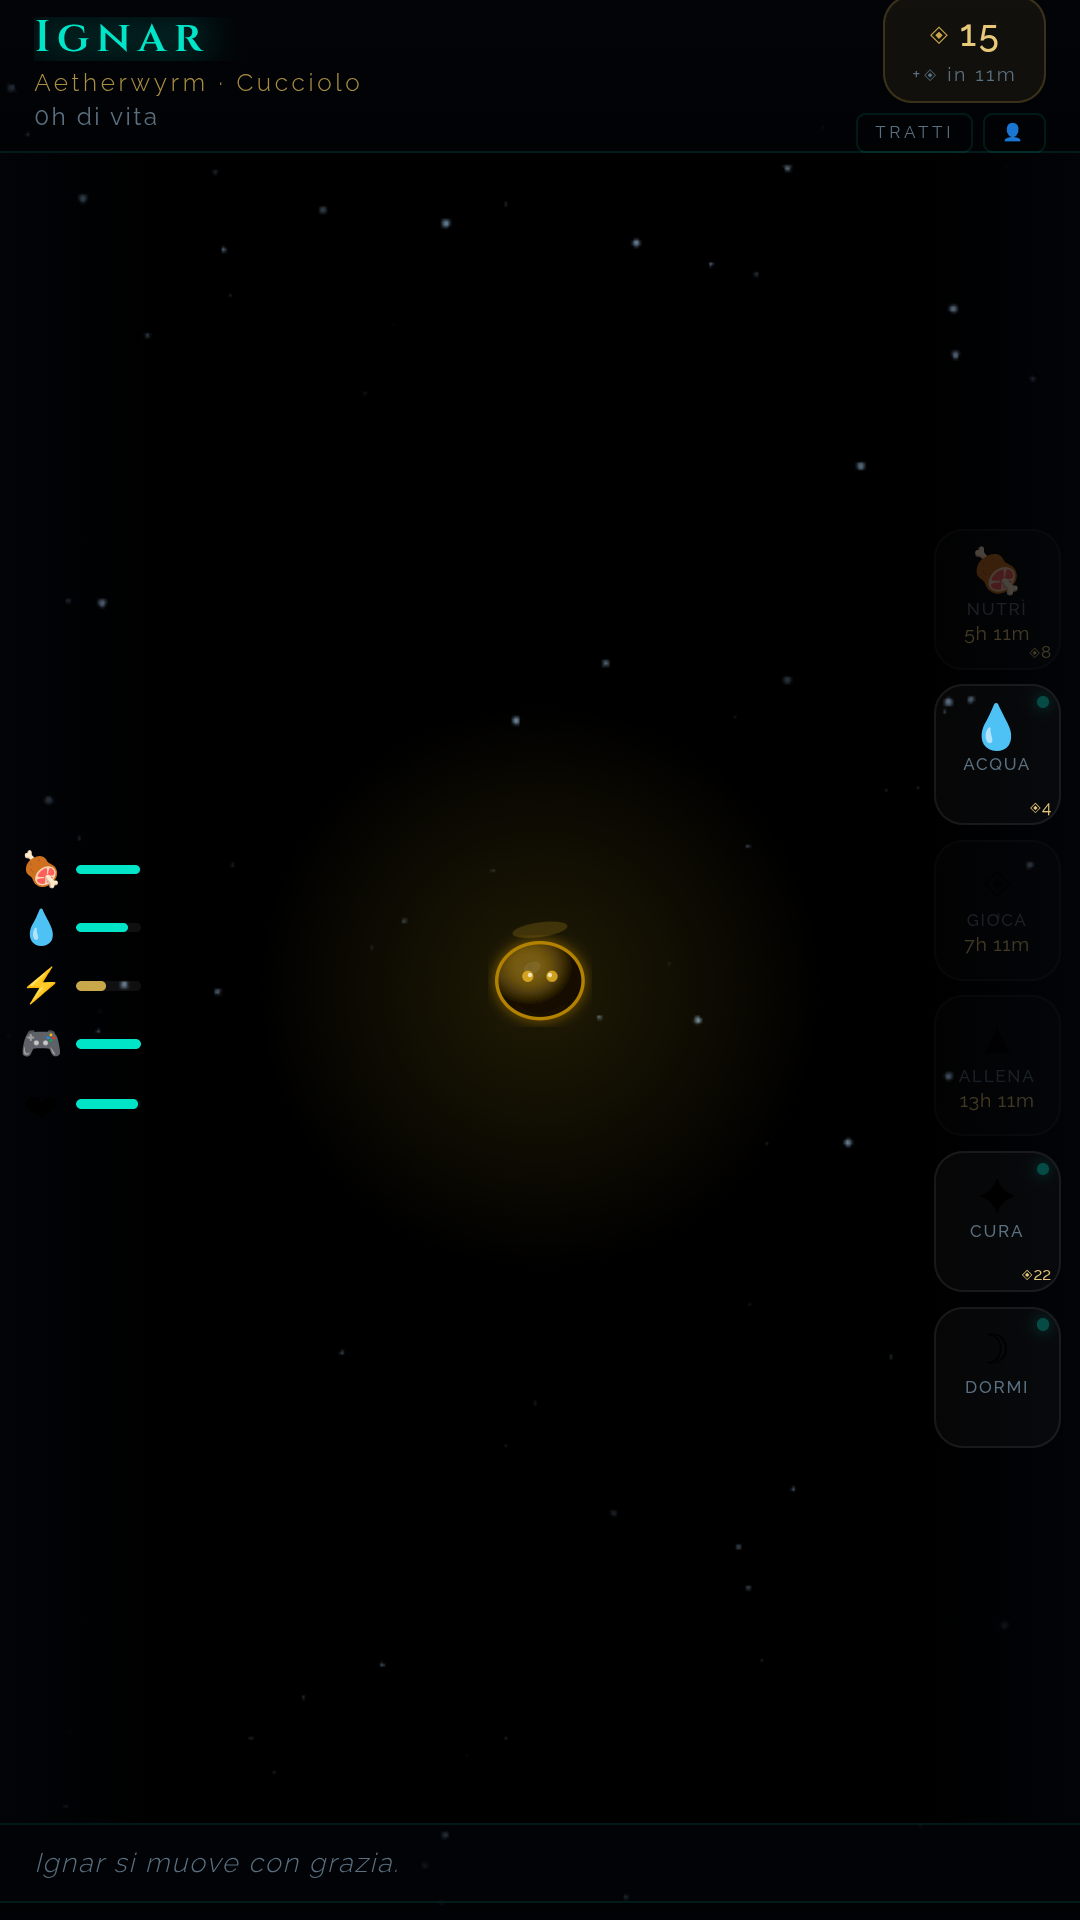
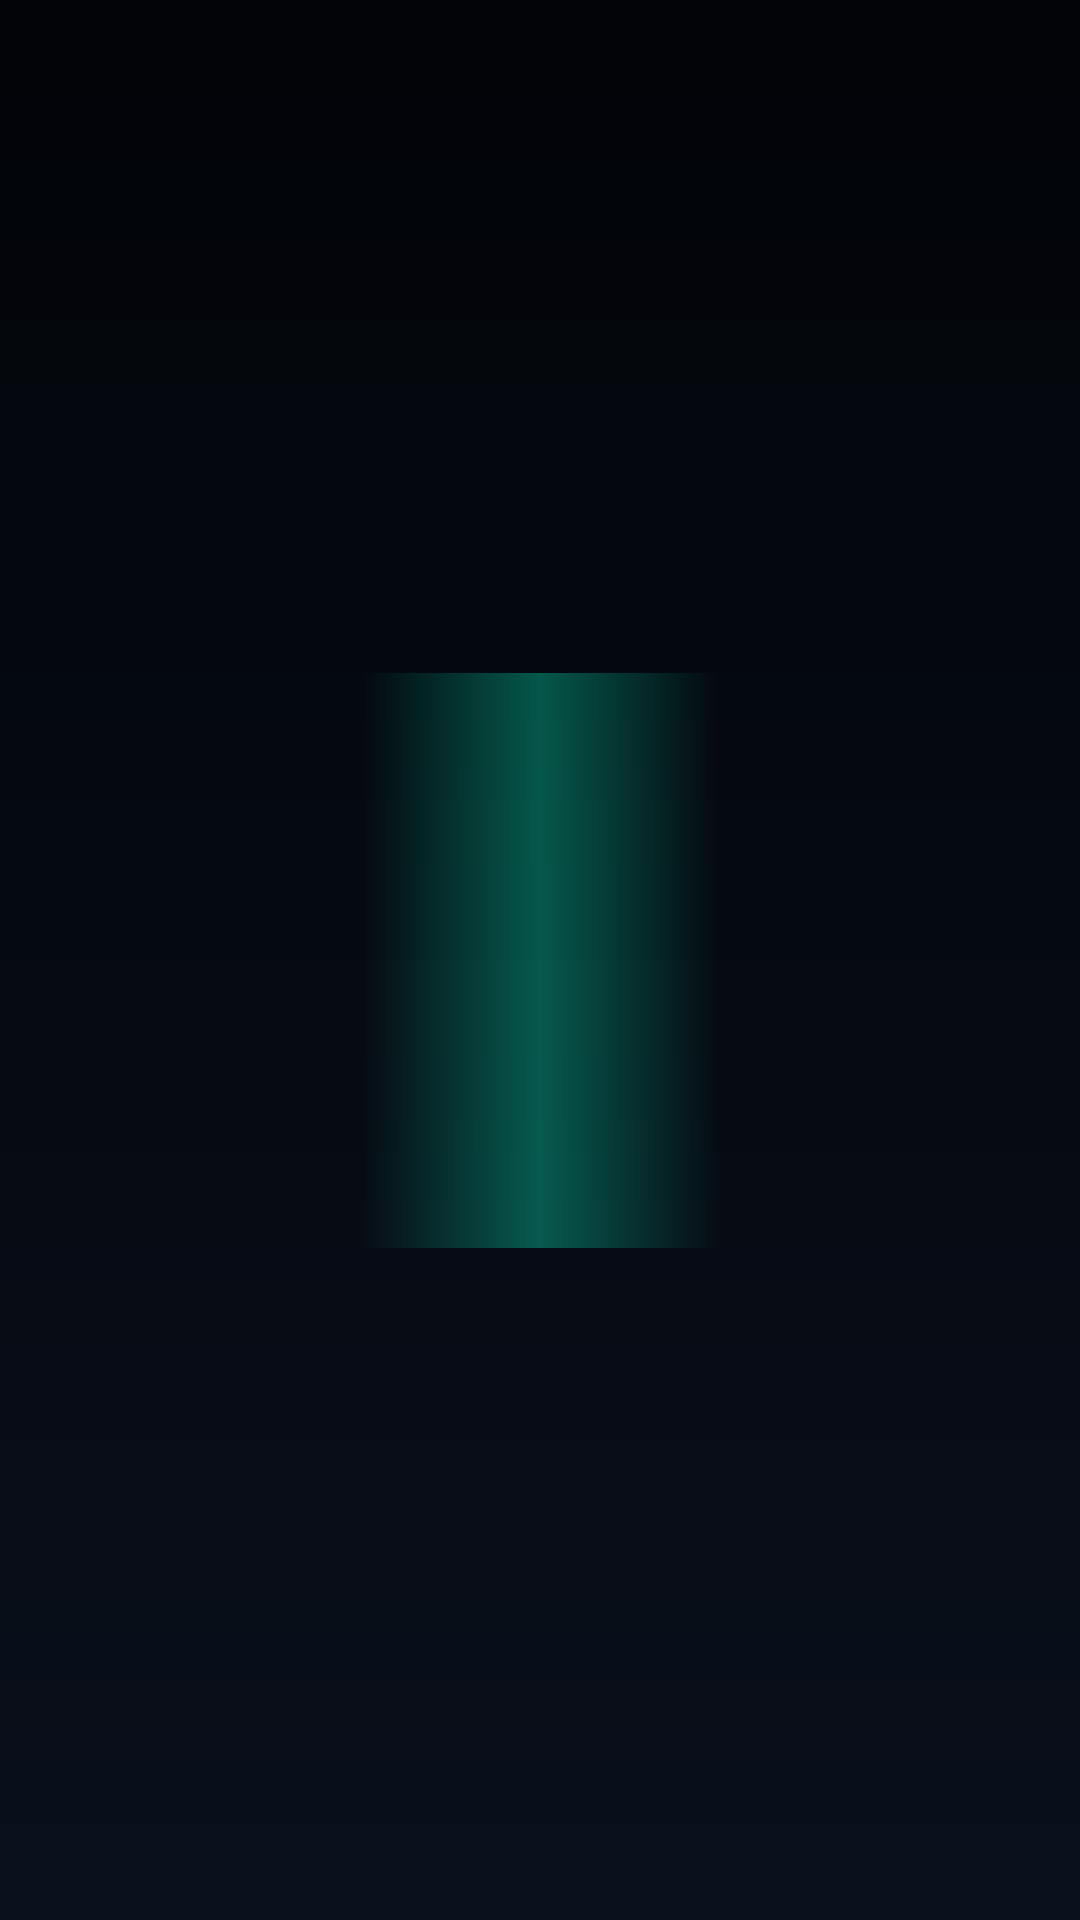
Add files via upload

diff --git a/game.js b/game.js
@@ -72,10 +72,10 @@ const SHOP_ITEMS=[
 ];
 
 // ── STATE ────────────────────────────────────────
-function loadG(){try{const s=localStorage.getItem('aether_v4');return s?JSON.parse(s):null;}catch(e){return null;}}
-function saveG(){try{localStorage.setItem('aether_v4',JSON.stringify(G));}catch(e){}}
+function loadG(){return window.G||null;}
+function saveG(){if(window.saveToCloud)window.saveToCloud(G);try{localStorage.setItem('aether_v4_bk',JSON.stringify(G));}catch(e){}}
 
-let G=loadG()||newGame();
+let G=null; // initialized by window.startGame after Firebase auth
 function newGame(){return{phase:'egg',eggStart:Date.now(),eggDuration:7*24*3600*1000,eggTaps:0,speciesId:null,name:null,birthMs:null,currentForm:null,stage:'hatchling',hp:90,hunger:85,thirst:85,energy:90,boredom:10,isSleeping:false,sleepStart:null,sleepDuration:null,absence:null,coins:15,nextCoinMs:Date.now()[phone redacted],counts:{play:0,train:0,sleep:0,hunt:0,explore:0,meditate:0},cooldowns:{},unlockedTraitIds:[],evoLog:[],lastTickMs:Date.now()};}
 
 function getSp(){return BASE_SPECIES[G.speciesId]||BASE_SPECIES.luminfang;}
@@ -91,7 +91,7 @@ function drawBg(t){ctx.clearRect(0,0,canvas.width,canvas.height);for(const s of 
 initCanvas();window.addEventListener('resize',initCanvas);requestAnimationFrame(t=>drawBg(t/1000));
 
 // ── SPLASH ───────────────────────────────────────
-// Boot triggered by Firebase auth via window.startGame()
+setTimeout(()=>{document.getElementById('splash').classList.add('fade');setTimeout(()=>{const s=document.getElementById('splash');if(s)s.remove();},900);boot();},1400);
 
 function boot(){
   if(G.phase==='egg'){document.getElementById('egg-view').style.display='flex';document.getElementById('app').style.display='none';updateEggUI();setInterval(updateEggUI,20000);}
@@ -223,7 +223,7 @@ function renderStates(){
   col.innerHTML=states.map(s=>{
     const pct=Math.max(0,Math.min(100,s.val));
     const color=s.bad?'#e05a6a':pct>60?'#00e5c8':'#c9a84c';
-    return `<div class="state-item${s.bad?' state-bad':''}"><span class="state-icon" style="color:${color}">${s.icon}</span><div class="state-bar-wrap"><div class="state-bar-fill" style="width:${pct}%;background:${color}"></div></div></div>`;
+    return `<div class="state-item${s.bad?' state-bad':''}"><span class="state-icon">${s.icon}</span><div class="state-bar-wrap"><div class="state-bar-fill" style="width:${pct}%;background:${color}"></div></div></div>`;
   }).join('');
 }
 
@@ -237,7 +237,7 @@ function renderActivity(){
   if(G.thirst<25){el.textContent=`${G.name} è assetato.`;return;}
   if(G.energy<20){el.textContent=`${G.name} si sta addormentando in piedi.`;return;}
   if(G.boredom>70){el.textContent=`${G.name} fissa il vuoto, annoiato.`;return;}
-  const idle={lazy:[`${G.name} sonnecchia al sole.`,`${G.name} osserva curioso.`,`${G.name} si stira pigro.`],aggressive:[`${G.name} graffia le pareti.`,`${G.name} ruggisce piano.`,`${G.name} si esercita.`],fearful:[`${G.name} è nascosto nell\'angolo.`,`${G.name} osserva tremante.`,`${G.name} sussurra a sé stesso.`],calm:[`${G.name} medita in silenzio.`,`${G.name} respira lentamente.`,`${G.name} contempla l\'infinito.`],majestic:[`${G.name} si muove con grazia.`,`${G.name} osserva dall'alto.`,`${G.name} emana luce.`],playful:[`${G.name} rimbalza ovunque.`,`${G.name} insegue la propria ombra.`,`${G.name} fa capriole.`],mysterious:[`${G.name} emette strane spore.`,`${G.name} sussurra formule.`,`${G.name} scompare un momento.`]}[sp.attitude]||[`${G.name} è tranquillo.`];
+  const idle={lazy:[`${G.name} sonnecchia al sole.`,`${G.name} osserva curioso.`,`${G.name} si stira pigro.`],aggressive:[`${G.name} graffia le pareti.`,`${G.name} ruggisce piano.`,`${G.name} si esercita.`],fearful:[`${G.name} è nascosto nell'angolo.`,`${G.name} osserva tremante.`,`${G.name} sussurra a sé stesso.`],calm:[`${G.name} medita in silenzio.`,`${G.name} respira lentamente.`,`${G.name} contempla l'infinito.`],majestic:[`${G.name} si muove con grazia.`,`${G.name} osserva dall'alto.`,`${G.name} emana luce.`],playful:[`${G.name} rimbalza ovunque.`,`${G.name} insegue la propria ombra.`,`${G.name} fa capriole.`],mysterious:[`${G.name} emette strane spore.`,`${G.name} sussurra formule.`,`${G.name} scompare un momento.`]}[sp.attitude]||[`${G.name} è tranquillo.`];
   el.textContent=idle[Math.floor(Date.now()/60000)%idle.length];
 }
 
@@ -305,20 +305,13 @@ function doAction(act){
 
 function putToSleep(){
   if(G.isSleeping||isAbsent())return;
-  const sp=getSp();
-  const missingEn=Math.max(20,100-G.energy);
-  const enR=sp.energyRate<1.5?14:sp.energyRate<2.5?11:8;
-  const hrs=Math.max(3,Math.min(10,missingEn/enR));
+  const sp=getSp();const hrs=sp.energyRate>2.0?7:8;
   G.isSleeping=true;G.sleepStart=Date.now();G.sleepDuration=hrs*3600000;
-  G.counts.sleep=(G.counts.sleep||0)+1;setCd('sleep',Math.ceil(hrs)+3);
-  saveG();setNotif(G.name+' si è addormentato. Si sveglierà tra ~'+Math.round(hrs)+'h.');
+  G.counts.sleep=(G.counts.sleep||0)+1;setCd('sleep',hrs+2);
+  saveG();setNotif(`${G.name} si è addormentato. Si sveglierà tra ${hrs}h.`);
   tryUnlock('sleep');checkEvolution();renderAll();
 }
-function wakeUp(){
-  if(!G.isSleeping)return;
-  G.isSleeping=false;G.sleepStart=null;G.sleepDuration=null;
-  saveG();setNotif(G.name+' si è svegliato.');renderAll();
-}
+function wakeUp(){G.isSleeping=false;G.sleepStart=null;G.sleepDuration=null;saveG();setNotif(`${G.name} si è svegliato.`);renderAll();}
 
 // ── ABSENCE RETURN ───────────────────────────────
 function checkAbsenceReturn(){
@@ -386,20 +379,11 @@ function gameTick(){
   const now=Date.now(),dtH=Math.min((now-G.lastTickMs)/3600000,8);G.lastTickMs=now;
   const sp=getSp(),absent=isAbsent();
   if(G.isSleeping){
-    const enR=sp.energyRate<1.5?14:sp.energyRate<2.5?11:8;
-    G.energy=Math.min(100,G.energy+enR*dtH);
-    G.hunger=Math.max(0,G.hunger-0.5*dtH);
-    G.thirst=Math.max(0,G.thirst-0.4*dtH);
-    G.boredom=Math.max(0,G.boredom-4*dtH);
-    G.hp=Math.min(100,G.hp+1*dtH);
-    const sleptMs=G.sleepStart?Date.now()-G.sleepStart:0;
-    const doneSleep=(G.sleepDuration&&sleptMs>=G.sleepDuration)||G.energy>=100;
-    if(doneSleep){G.isSleeping=false;G.sleepStart=null;G.sleepDuration=null;setNotif(G.name+' si è svegliato riposato.');}
+    G.energy=Math.min(100,G.energy+8*dtH);G.hunger=Math.max(0,G.hunger-.5*dtH);G.thirst=Math.max(0,G.thirst-.4*dtH);G.boredom=Math.max(0,G.boredom-2*dtH);
+    if(G.energy>=100){G.isSleeping=false;G.sleepStart=null;G.sleepDuration=null;setNotif(`${G.name} si è svegliato riposato.`);}
   }else if(!absent){
-    // BD=4.17: at rate 1.0, need empties in 24h real time
-    const BD=4.17;
-    G.hunger=Math.max(0,G.hunger-BD*sp.hungerRate*(hasTrait('vuln_fame')?1.6:1)*dtH);
-    G.thirst=Math.max(0,G.thirst-BD*sp.thirstRate*(hasTrait('vuln_sete')?1.6:1)*dtH);
+    G.hunger=Math.max(0,G.hunger-sp.hungerRate*(hasTrait('vuln_fame')?2:1)*dtH);
+    G.thirst=Math.max(0,G.thirst-sp.thirstRate*(hasTrait('vuln_sete')?1.8:1)*dtH);
     G.energy=Math.max(0,G.energy-sp.energyRate*dtH);
     G.boredom=Math.min(100,G.boredom+sp.boredRate*dtH);
     if(G.hunger<15||G.thirst<15)G.hp=Math.max(1,G.hp-2*dtH);
@@ -457,39 +441,18 @@ setInterval(()=>{if(G.phase==='alive'){checkAbsenceReturn();renderActions();rend
 setInterval(()=>{if(G.phase==='alive')updateCoinTimer();},30000);
 document.addEventListener('visibilitychange',()=>{if(!document.hidden&&G.phase==='alive')gameTick();});
 
-// ── SAVE MIGRATION ───────────────────────────────────────────────
-function migrateG(g){
-  if(!g) return null;
-  if(g.boredom===undefined) g.boredom=10;
-  if(g.isSleeping===undefined) g.isSleeping=false;
-  if(g.sleepStart===undefined) g.sleepStart=null;
-  if(g.sleepDuration===undefined) g.sleepDuration=null;
-  if(g.absence===undefined) g.absence=null;
-  if(g.nextCoinMs===undefined) g.nextCoinMs=Date.now()[phone redacted];
-  if(g.counts===undefined) g.counts={play:0,train:0,sleep:0,hunt:0,explore:0,meditate:0};
-  if(g.evoLog===undefined) g.evoLog=[];
-  if(g.unlockedTraitIds===undefined) g.unlockedTraitIds=[];
-  if(g.cooldowns===undefined) g.cooldowns={};
-  // Fix corrupted sleep: isSleeping=true but no duration
-  if(g.isSleeping&&!g.sleepDuration){g.isSleeping=false;g.sleepStart=null;}
-  // Fix expired absence
-  if(g.absence&&g.absence.endsMs<Date.now()){g.absence=null;}
-  return g;
-}
 
-// ── FIREBASE BRIDGE ──────────────────────────────────────────────
-window.startGame = function(){
-  if(!window.G){
-    try{const bk=localStorage.getItem('aether_v4_bk');window.G=bk?JSON.parse(bk):null;}catch(e){}
+// ── FIREBASE BRIDGE ──────────────────────────────
+// Called by index.html AFTER Firebase loads the cloud save into window.G
+window.startGame = function() {
+  if (!window.G) {
+    try { const bk=localStorage.getItem('aether_v4_bk'); window.G=bk?JSON.parse(bk):null; } catch(e){}
   }
-  G=migrateG(window.G)||newGame();
-  window.G=G;
-  setTimeout(()=>{
-    const s=document.getElementById('splash');
-    if(s){s.classList.add('fade');setTimeout(()=>s.remove(),900);}
-    boot();
-  },1400);
+  G = window.G || newGame();
+  window.G = G;
+  boot();
 };
 
-window.getSp=getSp;
-window.getCurrentForm=getCurrentForm;
+// Expose helpers for profile modal
+window.getSp = getSp;
+window.getCurrentForm = getCurrentForm;

diff --git a/index.html b/index.html
@@ -27,14 +27,14 @@ body{width:100%;height:100vh;height:-webkit-fill-available;overflow:hidden;backg
 @keyframes ptA{0%{opacity:1;transform:translate(0,0) scale(1)}100%{opacity:0;transform:translate(var(--tx),var(--ty)) scale(0)}}
 
 /* SPLASH */
-#splash{position:fixed;inset:0;z-index:800;background:radial-gradient(ellipse at 50% 40%,#060d18,#010205);display:flex;flex-direction:column;align-items:center;justify-content:center;transition:opacity .9s}
+#splash{position:fixed;inset:0;z-index:700;background:radial-gradient(ellipse at 50% 40%,#060d18,#010205);display:flex;flex-direction:column;align-items:center;justify-content:center;transition:opacity .9s}
 #splash.fade{opacity:0;pointer-events:none}
 #splash-logo{font-family:'Cinzel',serif;font-size:36px;font-weight:700;color:var(--teal);letter-spacing:8px;text-shadow:0 0 40px var(--teal);margin-bottom:8px}
 #splash-sub{font-size:10px;color:var(--fog2);letter-spacing:6px;text-transform:uppercase;opacity:.6}
 
 /* LOGIN */
-#login-screen{position:fixed;inset:0;z-index:500;background:radial-gradient(ellipse at 50% 40%,#060d18,#010205);display:flex;flex-direction:column;align-items:center;justify-content:center;padding:30px}
-/* login-screen always flex by default */
+#login-screen{position:fixed;inset:0;z-index:500;background:radial-gradient(ellipse at 50% 40%,#060d18,#010205);display:none;flex-direction:column;align-items:center;justify-content:center;padding:30px}
+#login-screen.on{display:flex}
 #login-logo{font-family:'Cinzel',serif;font-size:32px;font-weight:700;color:var(--teal);letter-spacing:8px;text-shadow:0 0 40px var(--teal);margin-bottom:6px}
 #login-tagline{font-size:11px;color:var(--fog2);letter-spacing:4px;margin-bottom:56px;opacity:.6}
 #login-card{width:100%;max-width:300px;text-align:center}
@@ -322,13 +322,10 @@ body{width:100%;height:100vh;height:-webkit-fill-available;overflow:hidden;backg
   <div id="logout-btn" onclick="doLogout()">DISCONNETTI</div>
 </div>
 
-<!-- DEBUG -->
-<div id="debug" style="position:fixed;bottom:0;left:0;right:0;z-index:9999;background:rgba(0,0,0,.85);color:#00e5c8;font-size:11px;padding:6px 10px;font-family:monospace;max-height:120px;overflow-y:auto"></div>
-
 <!-- FIREBASE SDK -->
 <script type="module">
 import { initializeApp } from "https://www.gstatic.com/firebasejs/12.12.1/firebase-app.js";
-import { getAuth, GoogleAuthProvider, signInWithPopup, signInWithRedirect, getRedirectResult, signOut, onAuthStateChanged }
+import { getAuth, GoogleAuthProvider, signInWithPopup, signOut, onAuthStateChanged }
   from "https://www.gstatic.com/firebasejs/12.12.1/firebase-auth.js";
 import { getFirestore, doc, getDoc, setDoc }
   from "https://www.gstatic.com/firebasejs/12.12.1/firebase-firestore.js";
@@ -360,51 +357,27 @@ window.setSyncDot = syncDot;
 window.loginWithGoogle = async () => {
   document.getElementById('login-error').textContent = '';
   try {
-    // Use redirect (more reliable on GitHub Pages and mobile)
-    await signInWithRedirect(auth, provider);
+    await signInWithPopup(auth, provider);
   } catch(e) {
-    document.getElementById('login-error').textContent = 'Accesso non riuscito: ' + e.message;
+    document.getElementById('login-error').textContent = 'Accesso non riuscito. Riprova.';
   }
 };
 
 window.doLogout = async () => {
-  // Clear in-memory state so next login loads fresh from cloud
-  window.G = null;
   await signOut(auth);
   closeProfile();
 };
 
 // ── AUTH STATE ───────────────────────────────────
-function dbg(msg) {
-  console.log('[AETHER]', msg);
-  const el = document.getElementById('debug');
-  if (el) el.innerHTML += msg + '<br>';
-}
-
-// Handle redirect result first (called after Google redirect back to app)
-getRedirectResult(auth).then(result => {
-  if (result && result.user) {
-    dbg('Redirect result: got user ' + result.user.email);
-  } else {
-    dbg('Redirect result: no user (first load or popup flow)');
-  }
-}).catch(e => {
-  dbg('Redirect result error: ' + e.message);
-});
-
 onAuthStateChanged(auth, async (user) => {
-  dbg('onAuthStateChanged: user=' + (user ? user.email : 'null'));
   window._fbUser = user;
   if (user) {
-    dbg('Logged in — loading save...');
-    document.getElementById('login-screen').style.display = 'none';
+    document.getElementById('login-screen').classList.remove('on');
     syncDot('syncing');
-    try { await loadCloud(user.uid); } catch(e) { dbg('loadCloud error: '+e.message); }
-    dbg('G.phase=' + (window.G ? window.G.phase : 'null'));
-    try { window.startGame(user.uid); } catch(e) { dbg('startGame error: '+e.message); }
+    await loadCloud(user.uid);
+    window.startGame();          // defined in game.js
   } else {
-    dbg('Not logged in — showing login screen');
-    document.getElementById('login-screen').style.display = 'flex';
+    document.getElementById('login-screen').classList.add('on');
     document.getElementById('app').style.display = 'none';
     document.getElementById('egg-view').style.display = 'none';
     syncDot('err');
@@ -417,17 +390,14 @@ async function loadCloud(uid) {
     const snap = await getDoc(doc(db, 'players', uid));
     if (snap.exists()) {
       const saved = snap.data().gameState;
-      // Always overwrite — never reuse a previous session's data
-      window.G = saved || null;
-    } else {
-      // No save for this user yet — start fresh
-      window.G = null;
+      if (saved) {
+        window.G = saved;
+        // keep lastTickMs so gameTick calculates elapsed time correctly
+      }
     }
     syncDot('ok');
   } catch(e) {
-    console.warn('Cloud load failed:', e);
-    // Clear on error to avoid mixing up accounts
-    window.G = null;
+    console.warn('Cloud load failed, using local:', e);
     syncDot('err');
   }
 }
@@ -436,9 +406,6 @@ async function loadCloud(uid) {
 window.saveToCloud = (gameState) => {
   const user = window._fbUser;
   if (!user) return;
-  // Safety check: never save if gameState belongs to another user
-  if (gameState.uid && gameState.uid !== user.uid) return;
-  gameState.uid = user.uid; // tag with current user
   syncDot('syncing');
   clearTimeout(saveTimer);
   saveTimer = setTimeout(async () => {